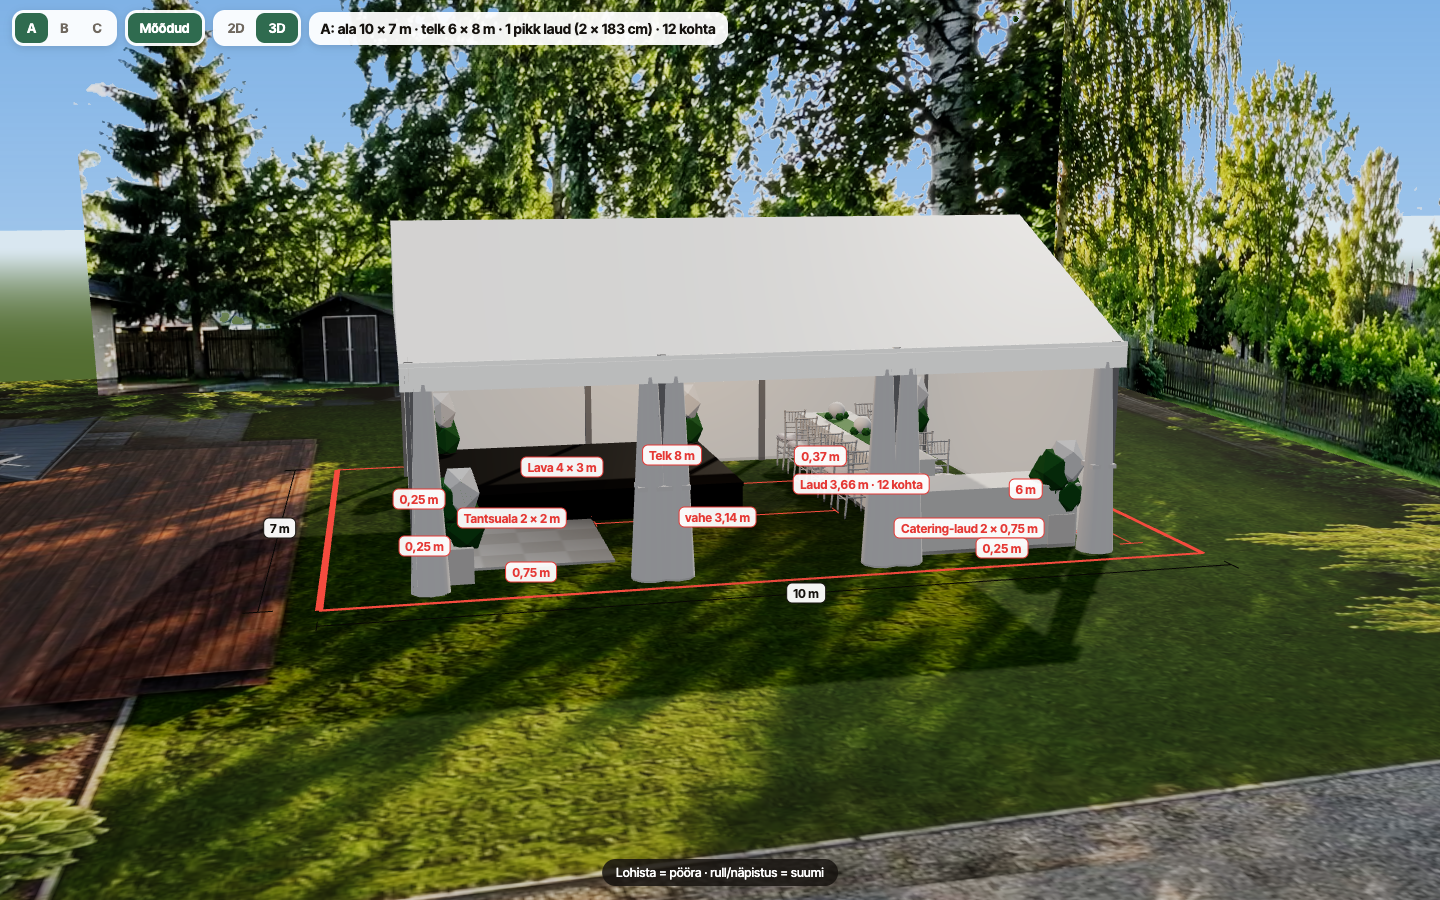
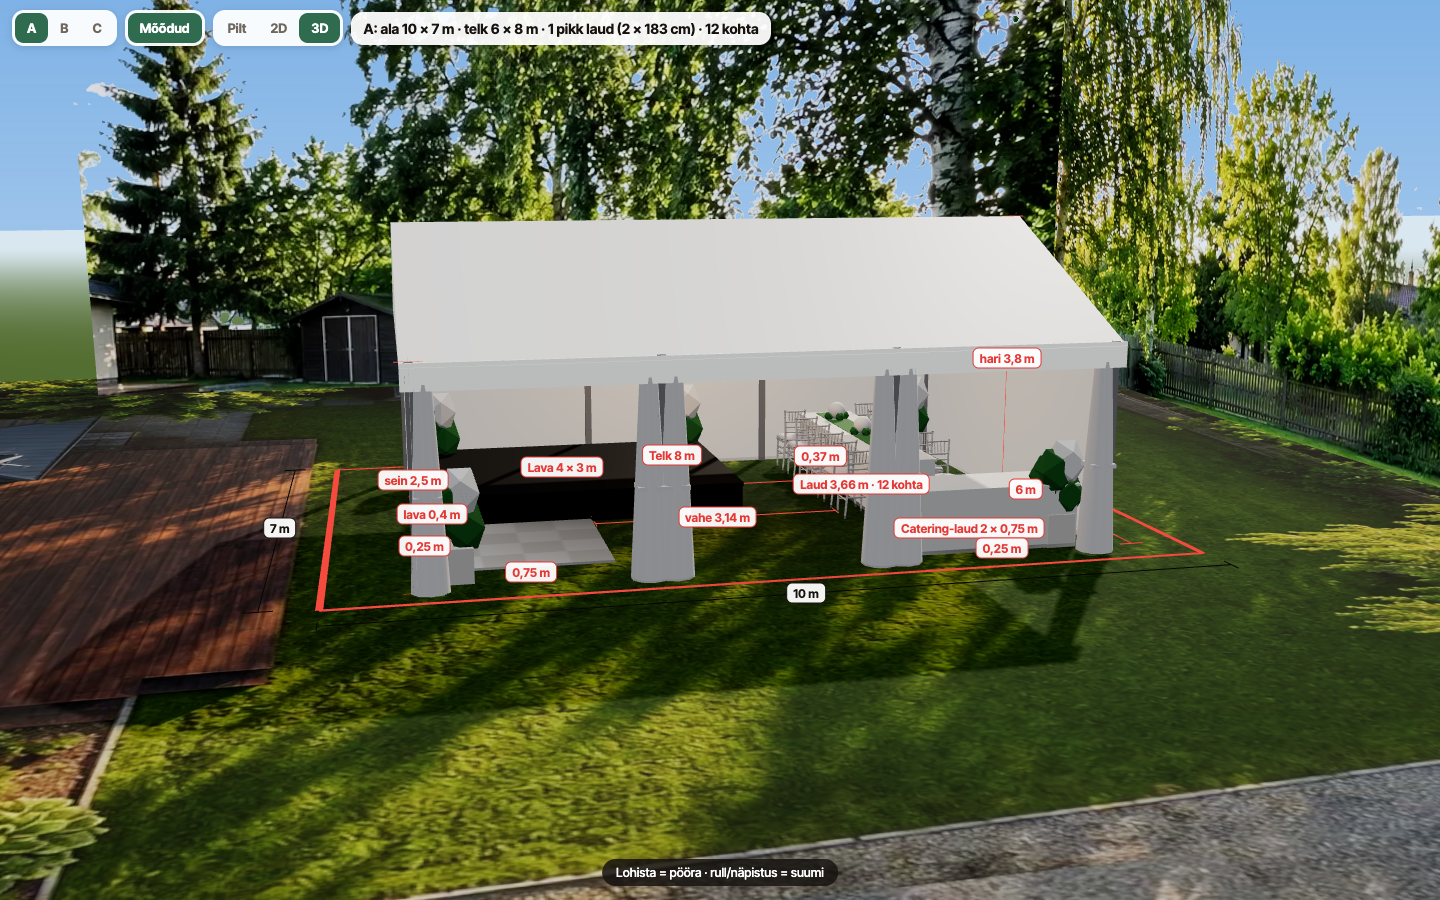
aiapidu brief: kaamera kalibreeritud (auto, uksed; viga 0,09 m), telgi kõrgused layout.json-is (6×8/6×9: sein 2,5 m, hari 3,8 m; stretch 2,1/4,3 m), pildid kalibreeritud renderi järgi, mõõdud pildil ja 3D-s ka kõrgustega

Changed region(s): [[0.1562, 0.0, 0.5312, 0.0622], [0.25, 0.4978, 0.4062, 0.5911], [0.6562, 0.3733, 0.7188, 0.4356]]

diff --git a/demo/aiapidu/brief/index.html b/demo/aiapidu/brief/index.html
@@ -64,7 +64,9 @@ const hideBk = () => BK.forEach(([m, nx, , nz]) => { m.visible = (cam.position.x
   const fw = W * 1.04, fh = fw * tH.image.height / tH.image.width, f = new THREE.Mesh(new THREE.PlaneGeometry(fw, fh), new THREE.MeshBasicMaterial({ map: tH, transparent: true, alphaTest: .5 })); f.position.set((hx0 + hx1) / 2, fh / 2, hz0 - .03); f.rotation.y = Math.PI; sc.add(f); }
 // paigutuse rühm: kohalik x = plaani x, z = plaani y; maailmas x -> lõunasse (-z), y -> läände (-x)  (nagu piltidel)
 let party = new THREE.Group(); sc.add(party);
-const place = g => { g.position.set(AREA.X0, 0, AREA.Z0 + 10); g.rotation.y = Math.PI / 2; g.scale.z = -1; return g; };
+const CAL = new URLSearchParams(location.search).has('cal') ? await fetch('cam-cal.json').then(r => r.json()) : null;
+// kalibreeritud kaamera teljestik: kaamera (0, h, 0) vaatab -z; ala esiserv 8,5 m ees, keskel 0,3 m paremal
+const place = CAL ? g => { g.position.set(.3 - 5, 0, -8.5); g.scale.z = -1; return g; } : g => { g.position.set(AREA.X0, 0, AREA.Z0 + 10); g.rotation.y = Math.PI / 2; g.scale.z = -1; return g; };
 { const a = place(new THREE.Group()), red = new THREE.MeshBasicMaterial({ color: '#e53935' }); for (const [w, d, x, z] of [[10, .08, 5, 0], [10, .08, 5, 7], [.08, 7, 0, 3.5], [.08, 7, 10, 3.5]]) { const m = new THREE.Mesh(new THREE.PlaneGeometry(w, d).rotateX(-Math.PI / 2), red); m.position.set(x, .035, z); a.add(m); } sc.add(a); }
 // mudelid
 const GL = new GLTFLoader(); GL.setMeshoptDecoder(MeshoptDecoder);
@@ -94,11 +96,11 @@ function build(v) {
   const L = LAY[v], o = L.origin, R = L.room, t = L.tent, g = new THREE.Group(); g.position.set(o.x, 0, o.y); party.add(g);
   // telk: moodultelgid = Tripo mudel (seinad, kardinad, kaarakend); stretch-telk koodiga
   if (t.type === 'stretch') { const geo = new THREE.PlaneGeometry(R.L + 1.4, R.W + 1.4, 30, 20).rotateX(-Math.PI / 2), p = geo.attributes.position, poles = [[R.L * .3, R.W / 2], [R.L * .7, R.W / 2]];
-    for (let i = 0; i < p.count; i++) { const x = p.getX(i) + R.L / 2, z = p.getZ(i) + R.W / 2; let y = 2.1; for (const [px, pz] of poles) y = Math.max(y, 2.1 + 2.2 * Math.exp(-Math.sqrt((x - px) ** 2 + (z - pz) ** 2) / 1.1)); const e = Math.min(x + .7, R.L + .7 - x, z + .7, R.W + .7 - z); p.setXYZ(i, x, y - Math.max(0, .55 - e) * 1.3, z); }
+    for (let i = 0; i < p.count; i++) { const x = p.getX(i) + R.L / 2, z = p.getZ(i) + R.W / 2; let y = t.sideH || 2.1; for (const [px, pz] of poles) y = Math.max(y, (t.sideH || 2.1) + ((t.ridgeH || 4.3) - (t.sideH || 2.1)) * Math.exp(-Math.sqrt((x - px) ** 2 + (z - pz) ** 2) / 1.1)); const e = Math.min(x + .7, R.L + .7 - x, z + .7, R.W + .7 - z); p.setXYZ(i, x, y - Math.max(0, .55 - e) * 1.3, z); }
     geo.computeVertexNormals(); const sm = new THREE.Mesh(geo, M('#fbfbf8', { roughness: .45, side: THREE.DoubleSide, transparent: true, emissive: '#ffffff', emissiveIntensity: .18 })); sm.castShadow = true; sm.userData.roof = 1; tentG = new THREE.Group(); tentG.add(sm); g.add(tentG);
     const met = M('#cfd3d6', { metalness: .6, roughness: .35 }); for (const [px, pz] of poles) boxM(.09, 4.5, .09, met, px, 2.25, pz, g); for (const [px, pz] of [[0, 0], [R.L, 0], [0, R.W], [R.L, R.W], [R.L / 2, 0], [R.L / 2, R.W]]) boxM(.06, 2.1, .06, met, px, 1.05, pz, g); }
   else { // moodultelk nagu pildil: valge viilkatus, valged seinad taga ja otstes, esikülg lahti, kardinad postide juures kinni seotud
-    tentG = new THREE.Group(); g.add(tentG); const side = 2.5, ridge = side + R.W * .22, white = M('#fbfbf9', { roughness: .5, side: THREE.DoubleSide, transparent: true, emissive: '#ffffff', emissiveIntensity: .18 }), wallM = M('#f7f6f2', { roughness: .6, side: THREE.DoubleSide, emissive: '#fff8ee', emissiveIntensity: .12 }), met = M('#e2e4e6', { metalness: .5, roughness: .3 }), cur = M('#ffffff', { roughness: .8 });
+    tentG = new THREE.Group(); g.add(tentG); const side = t.sideH || 2.5, ridge = t.ridgeH || 3.8, white = M('#fbfbf9', { roughness: .5, side: THREE.DoubleSide, transparent: true, emissive: '#ffffff', emissiveIntensity: .18 }), wallM = M('#f7f6f2', { roughness: .6, side: THREE.DoubleSide, emissive: '#fff8ee', emissiveIntensity: .12 }), met = M('#e2e4e6', { metalness: .5, roughness: .3 }), cur = M('#ffffff', { roughness: .8 });
     const n = Math.max(1, Math.round(R.L / 3)), xs = [...Array(n + 1)].map((_, i) => i * R.L / n);
     for (const x of xs) for (const z of [0, R.W]) boxM(.09, side, .09, met, x, side / 2, z, tentG);
     const v = [], q = (z0, z1, y0, y1) => v.push(-.1, y0, z0, R.L + .1, y0, z0, R.L + .1, y1, z1, -.1, y0, z0, R.L + .1, y1, z1, -.1, y1, z1);
@@ -112,7 +114,7 @@ function build(v) {
   const pl = new THREE.PointLight('#ffc98a', small ? 0 : 5, 15, 2); pl.position.set(R.L / 2, 2.6, R.W / 2); g.add(pl);
   let tables = 0, ch = [];
   for (const it of L.items) { const cx = it.x + it.w / 2, cz = it.y + it.d / 2;
-    if (it.kind === 'stage') { boxM(it.w, .36, it.d, M('#111', { roughness: .95 }), cx, .18, cz, g); boxM(it.w + .02, .05, it.d + .02, M('#1d1b19', { roughness: .4 }), cx, .385, cz, g); blob(cx, cz, it.w + 1, it.d + 1, g); } // must poodiumlava seelikuga (nagu pildil)
+    if (it.kind === 'stage') { const sh = it.h || .4; boxM(it.w, sh - .04, it.d, M('#111', { roughness: .95 }), cx, (sh - .04) / 2, cz, g); boxM(it.w + .02, .05, it.d + .02, M('#1d1b19', { roughness: .4 }), cx, sh - .015, cz, g); blob(cx, cz, it.w + 1, it.d + 1, g); } // must poodiumlava seelikuga (nagu pildil)
     else if (it.kind === 'dance') { const f = new THREE.Mesh(new THREE.BoxGeometry(it.w, .03, it.d), M('#fff', { map: floorTex, roughness: .15, metalness: .05 })); f.position.set(cx, .015, cz); f.receiveShadow = true; g.add(f); }
     else if (it.kind === 'catering') { skirtTable(it.w, it.d, cx, cz, g, false); blob(cx, cz, it.w + 1, it.d + 1, g); }
     else if (it.kind === 'seating') for (const tb of it.tables) { tables += tb.nTab; const len = tb.along ? tb.w : tb.d; skirtTable(tb.w, tb.d, tb.x + tb.w / 2, tb.y + tb.d / 2, g, true); blob(tb.x + tb.w / 2, tb.y + tb.d / 2, tb.w + 1.6, tb.d + 1.6, g); ch.push(...tb.chairs); } }
@@ -124,7 +126,9 @@ function build(v) {
 // mõõdud dims-X.json-ist (sama allikas mis 2D plaanil ja pildil), joonistatakse paigutuse rühma
 let dimG = null, tags = [], dimOn = true; const dmat = new THREE.LineBasicMaterial({ color: '#e53935' }), amat = new THREE.LineBasicMaterial({ color: '#16130F' });
 function dims(v) { if (dimG) sc.remove(dimG); dimG = place(new THREE.Group()); sc.add(dimG); tags.forEach(t => t.e.remove()); tags = [];
-  for (const d of DIMS[v]) { const a = new THREE.Vector3(d.a[0], .06, d.a[1]), b = new THREE.Vector3(d.b[0], .06, d.b[1]), m = d.kind === 'area' ? amat : dmat, dir = b.clone().sub(a).normalize(), n = new THREE.Vector3(-dir.z, 0, dir.x).multiplyScalar(.15);
+  for (const d of DIMS[v].filter(d => d.kind === 'vert')) { const a = new THREE.Vector3(d.a[0], 0, d.a[1]), b = a.clone().setY(d.h); dimG.add(new THREE.Line(new THREE.BufferGeometry().setFromPoints([a, b]), dmat)); for (const P of [a, b]) dimG.add(new THREE.Line(new THREE.BufferGeometry().setFromPoints([P.clone().add(new THREE.Vector3(-.15, 0, 0)), P.clone().add(new THREE.Vector3(.15, 0, 0))]), dmat));
+    const e = document.createElement('div'); e.className = 'tg'; e.textContent = d.t; $('tags').appendChild(e); tags.push({ e, p: a.clone().setY(d.h / 2), pr: 3.5 }); }
+  for (const d of DIMS[v].filter(d => d.kind !== 'vert')) { const a = new THREE.Vector3(d.a[0], .06, d.a[1]), b = new THREE.Vector3(d.b[0], .06, d.b[1]), m = d.kind === 'area' ? amat : dmat, dir = b.clone().sub(a).normalize(), n = new THREE.Vector3(-dir.z, 0, dir.x).multiplyScalar(.15);
     dimG.add(new THREE.Line(new THREE.BufferGeometry().setFromPoints([a, b]), m)); for (const P of [a, b]) dimG.add(new THREE.Line(new THREE.BufferGeometry().setFromPoints([P.clone().add(n), P.clone().sub(n)]), m));
     const e = document.createElement('div'); e.className = 'tg' + (d.kind === 'area' ? ' a' : ''); e.textContent = d.t; $('tags').appendChild(e); tags.push({ e, p: a.clone().add(b).multiplyScalar(.5), pr: { area: 5, tent: 4, size: 3, gap: 2, wall: 1 }[d.kind] }); }
   dimG.updateMatrixWorld(true); tags.forEach(t => t.p.applyMatrix4(dimG.matrixWorld)); dimG.visible = dimOn; need(); }
@@ -140,8 +144,11 @@ const fitSize = () => { r.setSize(innerWidth, innerHeight, false); cam.aspect = 
 $('ver').onclick = e => { const b = e.target.closest('button'); if (b) build(b.dataset.v); };
 $('dimB').onclick = () => { dimOn = !dimOn; $('dimB').setAttribute('aria-pressed', dimOn); dimG.visible = dimOn; picSrc(); need(); };
 $('vw').onclick = e => { const b = e.target.closest('button'); if (!b) return; const w = b.dataset.w; [...$('vw').children].forEach(x => x.setAttribute('aria-pressed', x === b)); $('plan').style.display = w === '2d' ? 'block' : 'none'; $('pic').style.display = w === 'pic' ? 'block' : 'none'; $('tags').style.display = $('hint').style.display = w === '3d' ? '' : 'none'; };
-(function loop() { requestAnimationFrame(loop); ctl.update(); if (!dirty) return; dirty = false; hideBk(); tentFade(); r.render(sc, cam); placeTags(); })();
+(function loop() { requestAnimationFrame(loop); if (CAL) return; ctl.update(); if (!dirty) return; dirty = false; hideBk(); tentFade(); r.render(sc, cam); placeTags(); })();
 window.__b = { cam, ctl, need, build, home };
+if (CAL) { sc.children.filter(o => o !== party && o.type !== 'HemisphereLight' && o !== sun && o !== sun.target).forEach(o => o.visible = false); sc.background = null; sc.fog = null; r.setClearColor(0, 0);
+  const gnd = new THREE.Mesh(new THREE.PlaneGeometry(80, 80).rotateX(-Math.PI / 2), new THREE.ShadowMaterial({ opacity: .35 })); gnd.receiveShadow = true; sc.add(gnd); sun.target.position.set(0, 0, -12); sun.position.set(-14, 20, -20);
+  window.__cal = () => { ctl.enabled = false; cam.fov = 2 * Math.atan(CAL.H / 2 / CAL.f) * 180 / Math.PI; cam.aspect = CAL.W / CAL.H; cam.position.set(0, CAL.h, 0); cam.rotation.set(-CAL.pitch, 0, 0); cam.updateProjectionMatrix(); r.setPixelRatio(1); r.setSize(CAL.W * 2, CAL.H * 2, false); dimG.visible = false; tags.forEach(t => t.e.style.display = 'none'); r.render(sc, cam); return r.domElement.toDataURL('image/png'); }; }
 const v0 = new URLSearchParams(location.search).get('v') || 'A';
 home(); build(v0); $('load').remove();
 </script></body></html>

diff --git a/demo/aiapidu/brief/plan.html b/demo/aiapidu/brief/plan.html
@@ -3,8 +3,8 @@
 <script src="../../../js/eventplan.js"></script><script src="../../../js/eventplan-svg.js"></script>
 <script>(async()=>{const id=new URLSearchParams(location.search).get('v');const D=await fetch(id+'-layout.json').then(r=>r.json()),L=D.layout;L.catalog=await fetch('../../../js/catalog/funrent.json').then(r=>r.json());
 const e=s=>String(s).replace(/[<>&]/g,'');
-document.getElementById('pg').innerHTML=`<div><h1>Paigutus ${id} · ${e(L.tent.name.replace(/^Moodultelk \d+ m /,'Moodultelk '))}</h1><div class="sub">Ala 10 × 7 m · 12 külalist · plaan päris mõõtudes, kaugused meetrites (kood)</div>${EventPlan.svg.svg(L,{width:1080})}</div>
+document.getElementById('pg').innerHTML=`<div><h1>Paigutus ${id} · ${e(L.tent.name.replace(/^Moodultelk \d+ m /,'Moodultelk '))} · seinad ${EventPlan.fmt(L.tent.sideH)} m · hari ${EventPlan.fmt(L.tent.ridgeH)} m</h1><div class="sub">Ala 10 × 7 m · 12 külalist · plaan päris mõõtudes, kaugused meetrites (kood)</div>${EventPlan.svg.svg(L,{width:1080})}</div>
 <div><h2>Kontroll</h2><ul class="ck">${L.checks.map(c=>`<li class="${c.ok?'ok':'no'}">${c.ok?'✓':'✗'} ${e(c.text)}</li>`).join('')}</ul>
-<h2>Kliendi reeglid</h2><ul class="ck"><li class="ok">✓ Kõik 12 ühe pika laua taga (2 × 183 × 76 cm)</li><li class="ok">✓ Poodiumlava 4 × 3 m, tantsuala 2 × 2 m lava kõrval</li><li class="ok">✓ Catering-laud 2 × 0,75 m</li><li class="ok">✓ Mööbel ≥ 0,25 m telgi seintest</li><li class="ok">✓ Vahekäigud ≥ 0,9 m, tooli taga ≥ 0,75 m (nõue 0,6 m)</li><li class="ok">✓ Telk ${e(L.tent.W+' × '+L.tent.L)} m mahub alale 10 × 7 m</li></ul>
+<h2>Kliendi reeglid</h2><ul class="ck"><li class="ok">✓ Kõik 12 ühe pika laua taga (2 × 183 × 76 cm)</li><li class="ok">✓ Telgi kõrgus: seinad ${EventPlan.fmt(L.tent.sideH)} m, hari ${EventPlan.fmt(L.tent.ridgeH)} m; lava kõrgus 0,4 m</li><li class="ok">✓ Poodiumlava 4 × 3 m, tantsuala 2 × 2 m lava kõrval</li><li class="ok">✓ Catering-laud 2 × 0,75 m</li><li class="ok">✓ Mööbel ≥ 0,25 m telgi seintest</li><li class="ok">✓ Vahekäigud ≥ 0,9 m, tooli taga ≥ 0,75 m (nõue 0,6 m)</li><li class="ok">✓ Telk ${e(L.tent.W+' × '+L.tent.L)} m mahub alale 10 × 7 m</li></ul>
 <h2>Tooted</h2><table>${L.bom.map(b=>`<tr><td>${e(b.name)}</td><td>${b.qty}</td></tr>`).join('')}</table>
 <h2>Kujundus</h2><div>Elegantne ja moodne, roheline + valge, rohelised taimed ja lilled (pildil ja 3D-s; ei võta põrandapinda).</div></div>`;document.body.dataset.ready=1;})();</script></body></html>

diff --git a/demo/aiapidu/brief/dims.js b/demo/aiapidu/brief/dims.js
@@ -23,6 +23,9 @@ function dims(L) {
     if (ox1 - ox0 > .3) { const x = (ox0 + ox1) / 2, g = a.y + a.d <= b.y ? [a.y + a.d, b.y] : b.y + b.d <= a.y ? [b.y + b.d, a.y] : null; if (g && g[1] - g[0] < 5) seg(P(x, g[0]), P(x, g[1]), 'vahe ' + fmt(g[1] - g[0]), 'gap'); }
     else if (oy1 - oy0 > .3) { const y = (oy0 + oy1) / 2, g = a.x + a.w <= b.x ? [a.x + a.w, b.x] : b.x + b.w <= a.x ? [b.x + b.w, a.x] : null; if (g && g[1] - g[0] < 5) seg(P(g[0], y), P(g[1], y), 'vahe ' + fmt(g[1] - g[0]), 'gap'); }
   }
+  // kõrgused (püstjooned): telgi sein ja hari, lava kõrgus; a = maapunkt, h = kõrgus
+  const t = L.tent; out.push({ a: P(0, 0), h: t.sideH, t: `sein ${EP.fmt(t.sideH)} m`, kind: 'vert' }, { a: P(R.L, R.W / 2), h: t.ridgeH, t: `hari ${EP.fmt(t.ridgeH)} m`, kind: 'vert' });
+  const st = L.items.find(i => i.kind === 'stage'); if (st) out.push({ a: P(st.x, st.y), h: st.h || .4, t: `lava ${EP.fmt(st.h || .4)} m`, kind: 'vert' });
   return out;
 }
 if (require.main === module) for (const v of ['A', 'B', 'C']) { const L = JSON.parse(fs.readFileSync(`${__dirname}/${v}-layout.json`)).layout; fs.writeFileSync(`${__dirname}/dims-${v}.json`, JSON.stringify(dims(L))); console.log(v, dims(L).map(s => s.t).join(' | ')); }

diff --git a/demo/aiapidu/brief/dims-image.py b/demo/aiapidu/brief/dims-image.py
@@ -1,33 +1,36 @@
+# Mõõtjooned kalibreeritud kaamerast (cam-cal.json) layout/dims-X.json-ist: põrandamõõdud + püstmõõdud.
 import json,numpy as np,sys
 from PIL import Image,ImageDraw,ImageFont
-D='/Users/taavimalm/objekti-ai/demo/aiapidu/brief';S=1.5;W,H=int(1672*S),int(941*S)
-# telgi maapinna nurgad igal AI-pildil (2000 px laiuses, märgitud käsitsi: esi-vasak, esi-parem, taga-parem, taga-vasak)
-TC={'A':[(690,700),(1640,915),(1835,690),(985,648)],'B':[(605,712),(1695,845),(1760,742),(900,640)],'C':[(560,635),(1775,850),(1830,640),(880,560)]}
-K=W/2000
-def homog(v):
-  L=json.load(open(f'{D}/{v}-layout.json'))['layout'];o=L['origin'];R=L['room']
-  src=[(o['x'],o['y']),(o['x']+R['L'],o['y']),(o['x']+R['L'],o['y']+R['W']),(o['x'],o['y']+R['W'])]
-  A=[];b=[]
-  for (x,y),(u,v2) in zip(src,TC[v]):u*=K;v2*=K;A+=[[x,y,1,0,0,0,-u*x,-u*y],[0,0,0,x,y,1,-v2*x,-v2*y]];b+=[u,v2]
-  return np.append(np.linalg.solve(np.array(A,float),np.array(b,float)),1).reshape(3,3)
-FB=ImageFont.truetype('/System/Library/Fonts/Supplemental/Arial Bold.ttf',int(19*S))
+D='/Users/taavimalm/objekti-ai/demo/aiapidu/brief';C=json.load(open(f'{D}/cam-cal.json'));f,th,h,W,H=C['f'],C['pitch'],C['h'],C['W'],C['H'];cx,cy=W/2,H/2
+AX,AN=.3-5,8.5   # ala nurk: plaan (x, y) -> paremale AX+x, ette AN+y
+def pj(px,py,z=0.0):
+  X=AX+px;Fw=AN+py;Y=h-z   # Y = kaamerast allapoole
+  zc=Fw*np.cos(th)+Y*np.sin(th);yc=-Fw*np.sin(th)+Y*np.cos(th)
+  return (cx+f*X/zc, cy+f*yc/zc)
+FB=lambda s:ImageFont.truetype('/System/Library/Fonts/Supplemental/Arial Bold.ttf',int(s))
 RED=(229,57,53)
-for v in 'ABC':
-  Hm=homog(v);pj=lambda p,Hm=Hm:(lambda q:(q[0]/q[2],q[1]/q[2]))(Hm@np.array([p[0],p[1],1.]))
-  im=Image.open(f'/tmp/yard/fin{v}.jpg').convert('RGB').resize((W,H),Image.LANCZOS);im.save(f'{D}/{v}-image.jpg',quality=88)
-  d=ImageDraw.Draw(im,'RGBA');segs=json.load(open(f'{D}/dims-{v}.json'));placed=[]
-  for s in sorted(segs,key=lambda s:{'area':0,'tent':1,'size':2,'gap':3,'wall':4}[s['kind']]):
-    a,c=pj(s['a']),pj(s['b']);w=int(3*S) if s['kind'] in('area','tent') else int(2.4*S)
-    col=(255,255,255) if s['kind']=='area' else RED
-    d.line([a,c],fill=col,width=w)
-    L=max(1e-6,np.hypot(c[0]-a[0],c[1]-a[1]));nx,ny=-(c[1]-a[1])/L*7*S,(c[0]-a[0])/L*7*S
-    for p in (a,c):d.line([(p[0]-nx,p[1]-ny),(p[0]+nx,p[1]+ny)],fill=col,width=w)
-    t=s['t'];tw=d.textlength(t,font=FB)+16*S;th=28*S;m=[(a[0]+c[0])/2,(a[1]+c[1])/2]
+def draw(v,src,out):
+  im=Image.open(src).convert('RGB');S=im.width/W;d=ImageDraw.Draw(im,'RGBA');F=FB(15*S);placed=[]
+  P=lambda a,z=0:tuple(c*S for c in pj(a[0],a[1],z))
+  segs=json.load(open(f'{D}/dims-{v}.json'))
+  def label(m,t,col):
+    tw=d.textlength(t,font=F)+14*S;th_=24*S;m=list(m)
     for _ in range(8):
-      if any(abs(m[0]-q[0])<(tw+q[2])/2 and abs(m[1]-q[1])<th for q in placed): m[1]-=th*.9
+      if any(abs(m[0]-q[0])<(tw+q[2])/2 and abs(m[1]-q[1])<th_ for q in placed): m[1]-=th_*.9
       else: break
-    placed.append((m[0],m[1],tw))
-    d.rounded_rectangle([m[0]-tw/2,m[1]-th/2,m[0]+tw/2,m[1]+th/2],radius=6*S,fill=(255,255,255,240),outline=col if s['kind']!='area' else (40,40,40),width=int(1.5*S))
-    d.text((m[0]-tw/2+8*S,m[1]-th/2+4*S),t,fill=RED if s['kind']!='area' else (22,19,15),font=FB)
-  d.rectangle([0,H-38*S,W,H],fill=(22,19,15,230));d.text((14*S,H-31*S),'Mõõdud layout.json-ist (sama mis 2D plaanil). Pilt on illustratiivne, täpsed mõõdud plaanil.',fill='white',font=FB)
-  im.save(f'{D}/{v}-image-mootudega.jpg',quality=88);print(v)
+    placed.append((m[0],m[1],tw));d.rounded_rectangle([m[0]-tw/2,m[1]-th_/2,m[0]+tw/2,m[1]+th_/2],radius=5*S,fill=(255,255,255,240),outline=col,width=int(1.4*S));d.text((m[0]-tw/2+7*S,m[1]-th_/2+3*S),t,fill=col if col!=(255,255,255) else (22,19,15),font=F)
+  for s in sorted(segs,key=lambda s:{'area':0,'tent':1,'vert':2,'size':3,'gap':4,'wall':5}[s['kind']]):
+    if s['kind']=='vert':
+      a=P(s['a']);b=P(s['a'],s['h']);d.line([a,b],fill=RED,width=int(2.6*S))
+      for q in (a,b):d.line([(q[0]-8*S,q[1]),(q[0]+8*S,q[1])],fill=RED,width=int(2.6*S))
+      label(((a[0]+b[0])/2-50*S,(a[1]+b[1])/2),s['t'],RED);continue
+    a,b=P(s['a']),P(s['b']);col=(255,255,255) if s['kind']=='area' else RED
+    d.line([a,b],fill=col,width=int((3 if s['kind'] in('area','tent') else 2.2)*S))
+    L=max(1e-6,np.hypot(b[0]-a[0],b[1]-a[1]));nx,ny=-(b[1]-a[1])/L*6*S,(b[0]-a[0])/L*6*S
+    for q in (a,b):d.line([(q[0]-nx,q[1]-ny),(q[0]+nx,q[1]+ny)],fill=col,width=int(2.2*S))
+    label(((a[0]+b[0])/2,(a[1]+b[1])/2),s['t'],col)
+  d.rectangle([0,im.height-34*S,im.width,im.height],fill=(22,19,15,230))
+  d.text((12*S,im.height-29*S),f"Mõõdud layout.json-ist läbi kalibreeritud kaamera (viga {C['rms']:.2f} m). Täpsed mõõdud 2D plaanil.",fill='white',font=F)
+  im.save(out,quality=88)
+if __name__=='__main__':
+  for v in sys.argv[1:]: draw(v,f'/tmp/cal/ai-{v}.jpg',f'/tmp/cal/ov-{v}.jpg')

diff --git a/demo/aiapidu/brief/calibrate.py b/demo/aiapidu/brief/calibrate.py
@@ -1,0 +1,23 @@
+# Kalibreerimine kasutaja hoovifotol (1.webp, 1672×941): tundmatud f, kalle (pitch), kaamera kõrgus h; roll 0, peapunkt keskel.
+# Viited (päris mõõdud): auto kõrgus 1,5 m, maja välisuks 2,1 m, terrassi klaasuks 2,1 m, kuuri uks 1,8 m; f-i eeldus iPhone 1x (≈26 mm) nõrga kaaluga.
+import numpy as np, json
+from scipy.optimize import least_squares
+W,H=1672,941;cx,cy=W/2,H/2
+REF=[('auto kõrgus',608,452,1.5),('maja uks',480,412,2.1),('klaasuks',489,406,2.1),('kuuri uks',489,434,1.6)]
+def alpha(v,f,th): return th+np.arctan((v-cy)/f)
+def Hpred(vb,vt,f,th,h): return h*(1-np.tan(alpha(vt,f,th))/np.tan(alpha(vb,f,th)))
+def res(p):
+  f,th,h=p;r=[Hpred(vb,vt,f,th,h)-Hm for _,vb,vt,Hm in REF];r.append((f-1217)/1217*0.5);return r
+s=least_squares(res,[1217,.05,1.6],bounds=([700,-.3,.8],[2000,.5,3]))
+f,th,h=s.x
+print(f'f={f:.0f}px pitch={np.degrees(th):.2f}° h={h:.2f} m')
+errs=[(n,Hpred(vb,vt,f,th,h),Hm) for n,vb,vt,Hm in REF]
+for n,p,m in errs: print(f'  {n}: mudel {p:.2f} m, tegelik {m:.2f} m, viga {abs(p-m):.2f} m')
+rms=np.sqrt(np.mean([(p-m)**2 for _,p,m in errs]));print('RMS viga',round(rms,3),'m')
+# maapinna punkt pikslist (kaamera teljestik: x paremale, z ette)
+def ground(u,v):
+  xn,yn=(u-cx)/f,(v-cy)/f;fw=np.cos(th)-yn*np.sin(th);dn=np.sin(th)+yn*np.cos(th);t=h/dn;return np.array([xn*t,fw*t])
+for n,(u,v) in {'ala keskpunkt (varem märgitud)':(880,660),'auto taga':(70,608),'maja uks':(676,480),'kuur':(910,490),'kask':(1495,635)}.items():
+  g=ground(u,v);print(f'  {n}: {g[0]:.1f} m paremal, {g[1]:.1f} m ees')
+c=ground(880,660)
+json.dump({'f':f,'pitch':th,'h':h,'W':W,'H':H,'rms':rms,'errs':[(n,round(p,3),m) for n,p,m in errs],'center':c.tolist()},open('/tmp/cal/cam.json','w'),ensure_ascii=False)
